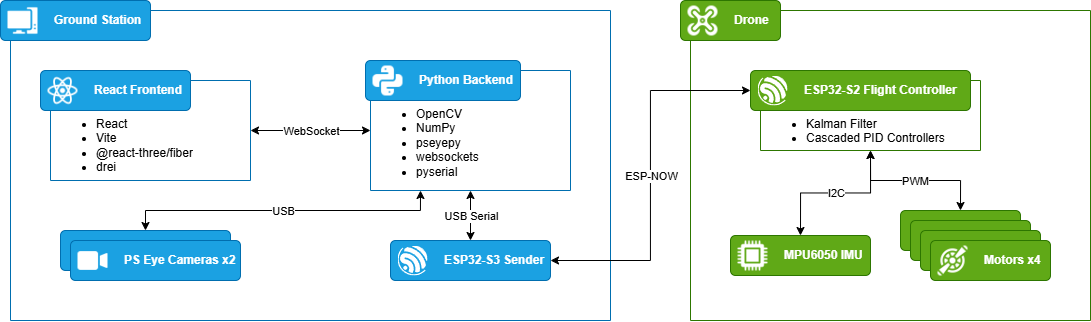
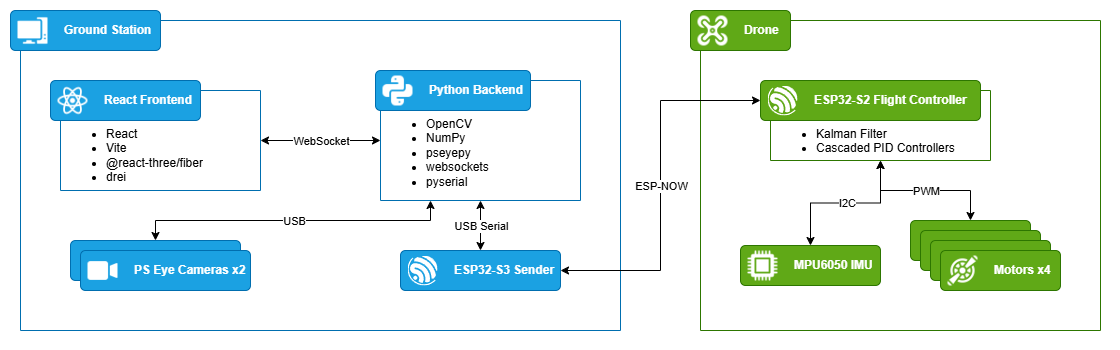
Update architecture documentation and replace diagram

diff --git a/README.md b/README.md
@@ -6,6 +6,8 @@ This repository contains the `MoCap` project, split into a Python backend, a Rea
 
 See [Architecture Diagram](docs/architecture-diagram.md) for a GitHub-rendered system diagram covering the host computer, cameras, USB/ESP-NOW bridge, and drone-side controller stack.
 
+![System architecture diagram](architecture.png)
+
 ## Structure
 
 - `backend/`: motion-capture logic, camera calibration files, and the main tracking server in `index.py`
